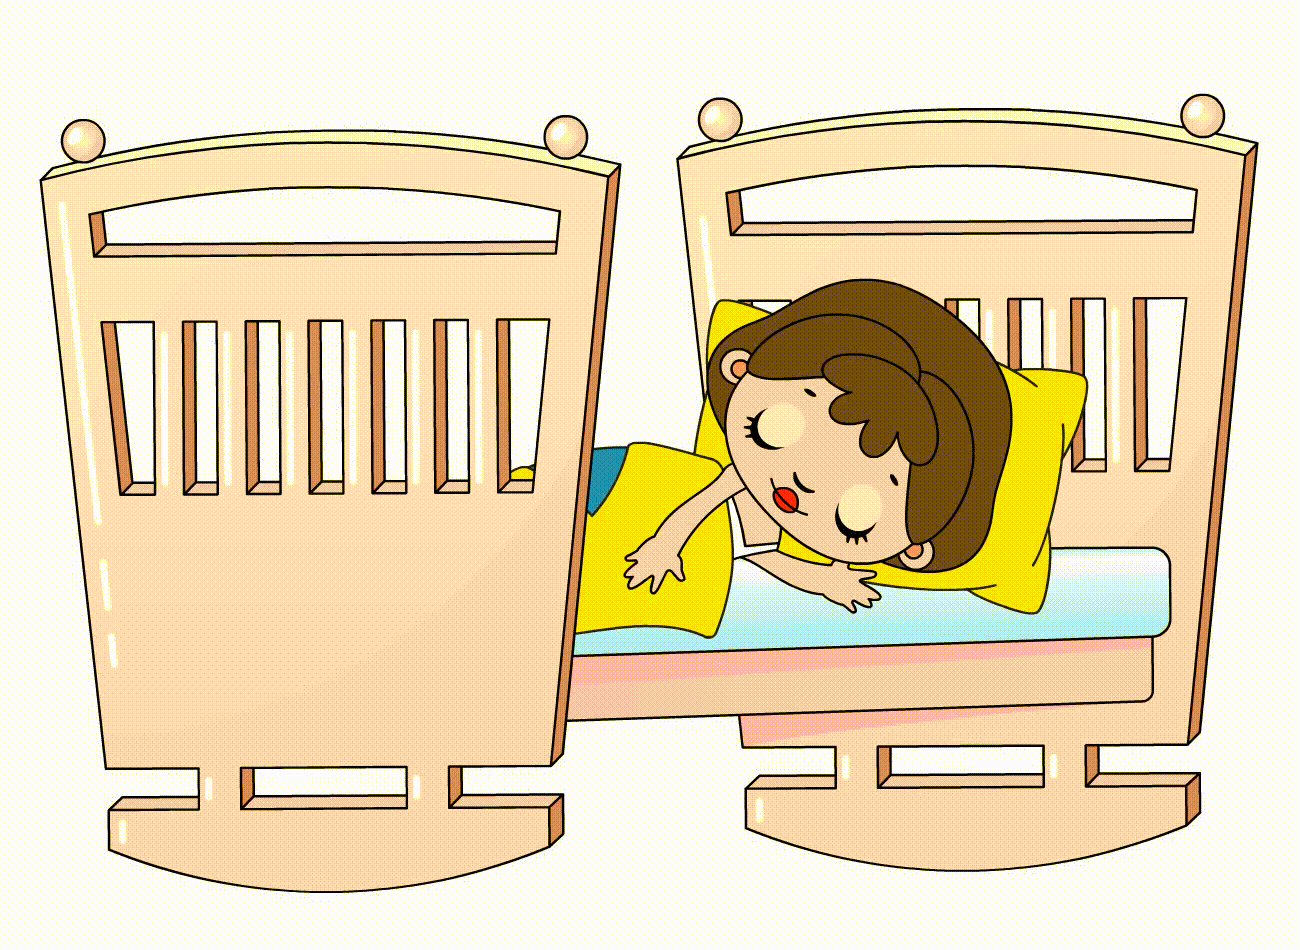
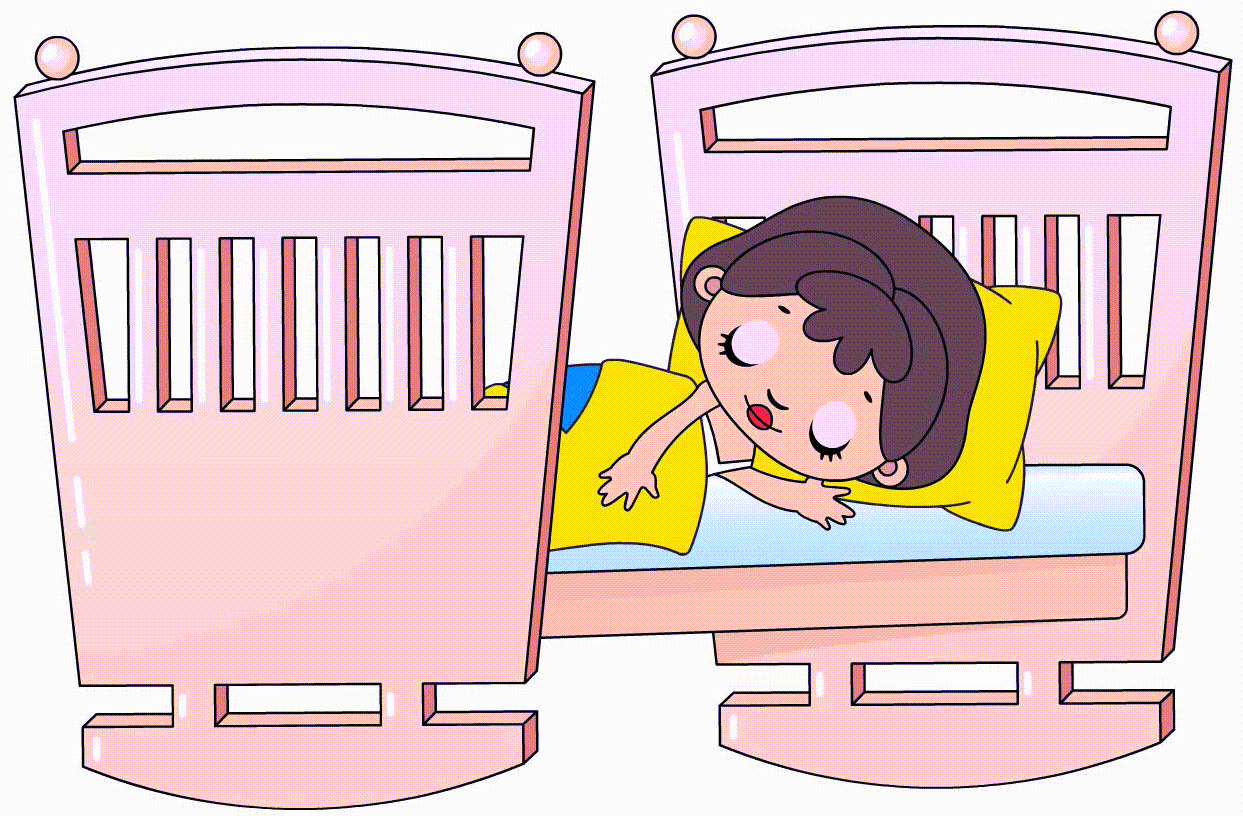
imgs

diff --git a/Сложность_1/2/doll_2.html b/Сложность_1/2/doll_2.html
@@ -21,7 +21,7 @@
 
       <div class="doll_2_Main doll_2_Block">
         <div class="doll_2_sleeping">
-          <img class="doll_2_bed" src="Images_1/doll_2_img/bed.jpg" alt="doll-sleeping">
+          <img class="doll_2_bed" src="Images_1/doll_2_img/crib.png" alt="doll-sleeping">
         </div>
 
       </div>

diff --git a/Сложность_1/2/js-data/doll_2_script.js b/Сложность_1/2/js-data/doll_2_script.js
@@ -30,7 +30,7 @@
     resetBtn.addEventListener('click', reset);
 
     function reset() {
-        bed.src = 'Images_1/doll_2_img/bed.jpg'
+        bed.src = 'Images_1/doll_2_img/crib.png'
         draggingItem.classList.remove('hide')
         well_done.classList.remove('onViewdoll_2');
 
